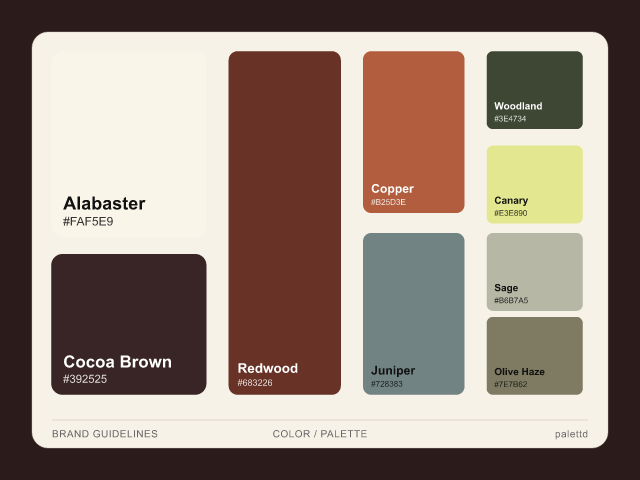
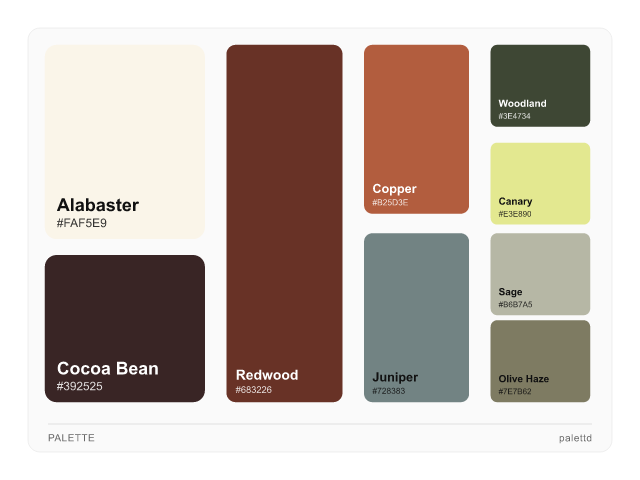
version 1.0.1

diff --git a/src/layout/templates.ts b/src/layout/templates.ts
@@ -208,11 +208,14 @@ export function generateLayout(
   const footerHeight = 28;
   const contentPadding = opts.padding * 0.6;
 
-  // Content area within the card (excluding padding and footer)
+  // Title takes up top portion if present
+  const titleHeight = opts.title ? 32 : 0;
+
+  // Content area within the card (excluding padding, title, and footer)
   const contentX = contentPadding;
-  const contentY = contentPadding;
+  const contentY = contentPadding + titleHeight;
   const contentWidth = cardWidth - contentPadding * 2;
-  const contentHeight = cardHeight - contentPadding * 2 - footerHeight;
+  const contentHeight = cardHeight - contentPadding * 2 - footerHeight - titleHeight;
 
   // Convert template cells to absolute positions
   const swatches: SwatchLayout[] = template.slice(0, colorCount).map((cell) => {
